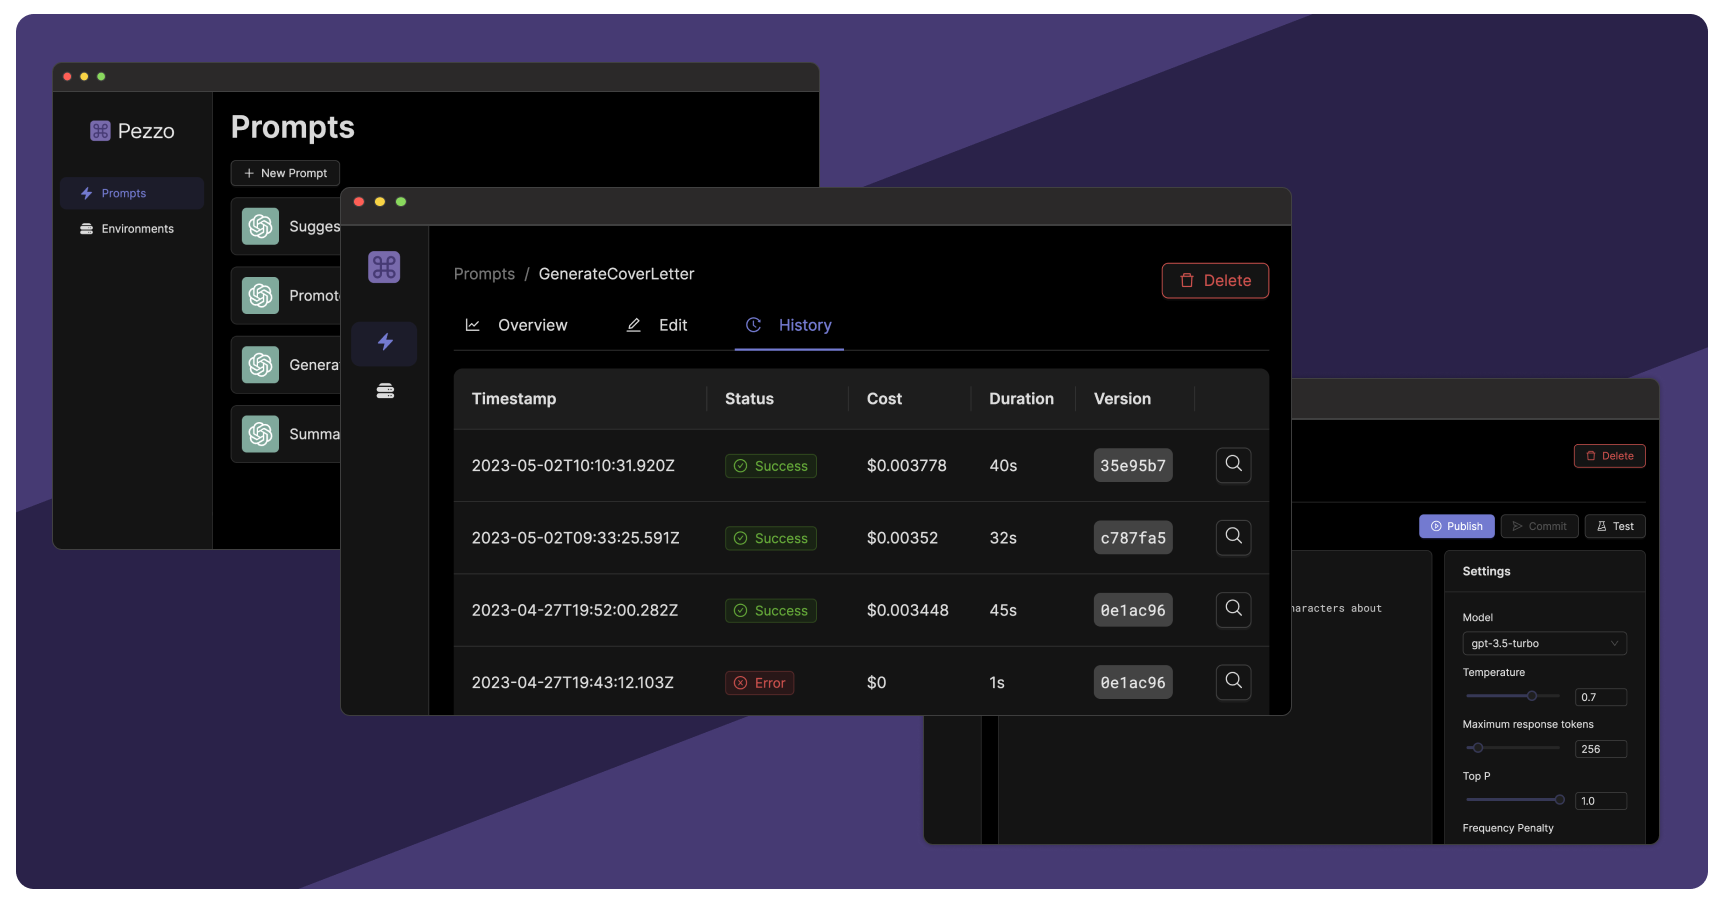
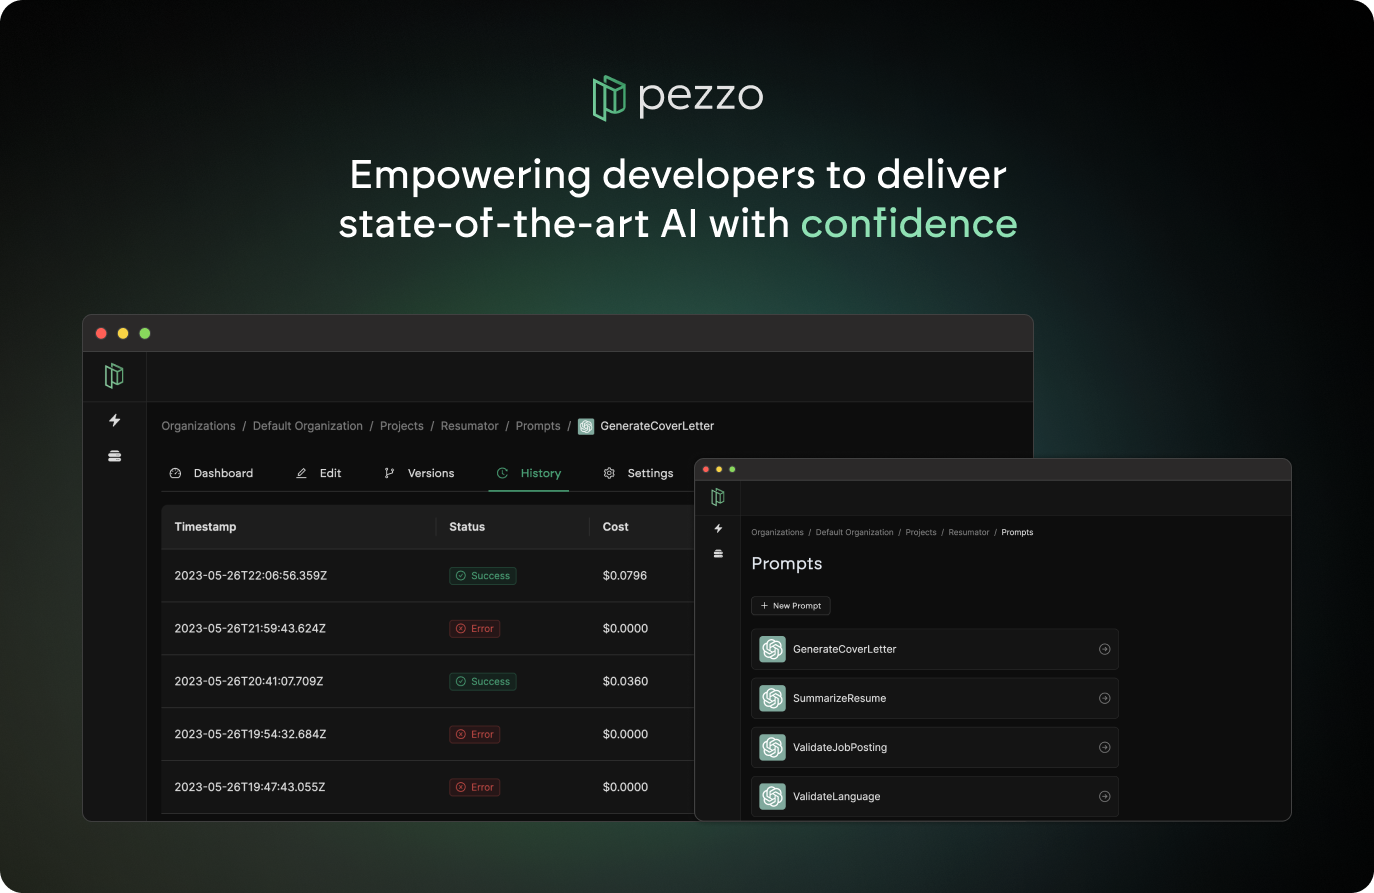
feat(readme): new look

diff --git a/README.md b/README.md
@@ -1,26 +1,17 @@
 <p align="center">
-<img src="https://github.com/pezzolabs/pezzo/actions/workflows/ci.yaml/badge.svg" />
-<a href="CODE_OF_CONDUCT.md">
-  <img src="https://img.shields.io/badge/Contributor%20Covenant-v2.0%20adopted-ff69b4.svg" alt="Contributor Covenant">
-</a>
-<a href="https://opensource.org/licenses/Apache-2.0">
-  <img src="https://img.shields.io/badge/License-Apache%202.0-blue.svg" alt="License">
-</a>
-  <img src="https://img.shields.io/discord/1105803596475404358?label=Discord"/>
-
-<p align="center">
-  <img src=".github/assets/logo-dark.svg" width="300px">
+  <img src=".github/assets/logo-square.svg" width="250px">
   <br />
   <strong>
   <br />
-  Pezzo is an open-source AI development toolkit designed to streamline prompt design, version management, publishing, collaboration, troubleshooting, observability and more. Our mission is to empower individuals and teams to harness the power of AI with maximum productivity and visibility.
+  Pezzo is an open-source AI development toolkit designed to streamline prompt design, version management, publishing, collaboration, troubleshooting, observability and more. Our mission is to empower individuals and teams to harness the power of AI with confidence.
   </strong>
   <br />
 </p>
+
 <br />
 <p align="center">
   <a href="https://bit.ly/pezzo-demo-github" target="_blank">
-  <img src=".github/assets/banner-video.png" width="700px">
+  <img src=".github/assets/banner.png" width="900px">
 </p>
 
 <p align="center">
@@ -31,6 +22,17 @@
 
 <p align="center">
   <a href="https://forms.gle/dg7fXnG5WKkeAUb59"><strong>Click here to sign up for early access to Pezzo Cloud! 🌩</strong></a>
+</p>
+
+<p align="center">
+<img src="https://github.com/pezzolabs/pezzo/actions/workflows/ci.yaml/badge.svg" />
+<a href="CODE_OF_CONDUCT.md">
+  <img src="https://img.shields.io/badge/Contributor%20Covenant-v2.0%20adopted-ff69b4.svg" alt="Contributor Covenant">
+</a>
+<a href="https://opensource.org/licenses/Apache-2.0">
+  <img src="https://img.shields.io/badge/License-Apache%202.0-blue.svg" alt="License">
+</a>
+  <img src="https://img.shields.io/discord/1105803596475404358?label=Discord"/>
 </p>
 
 # Features
